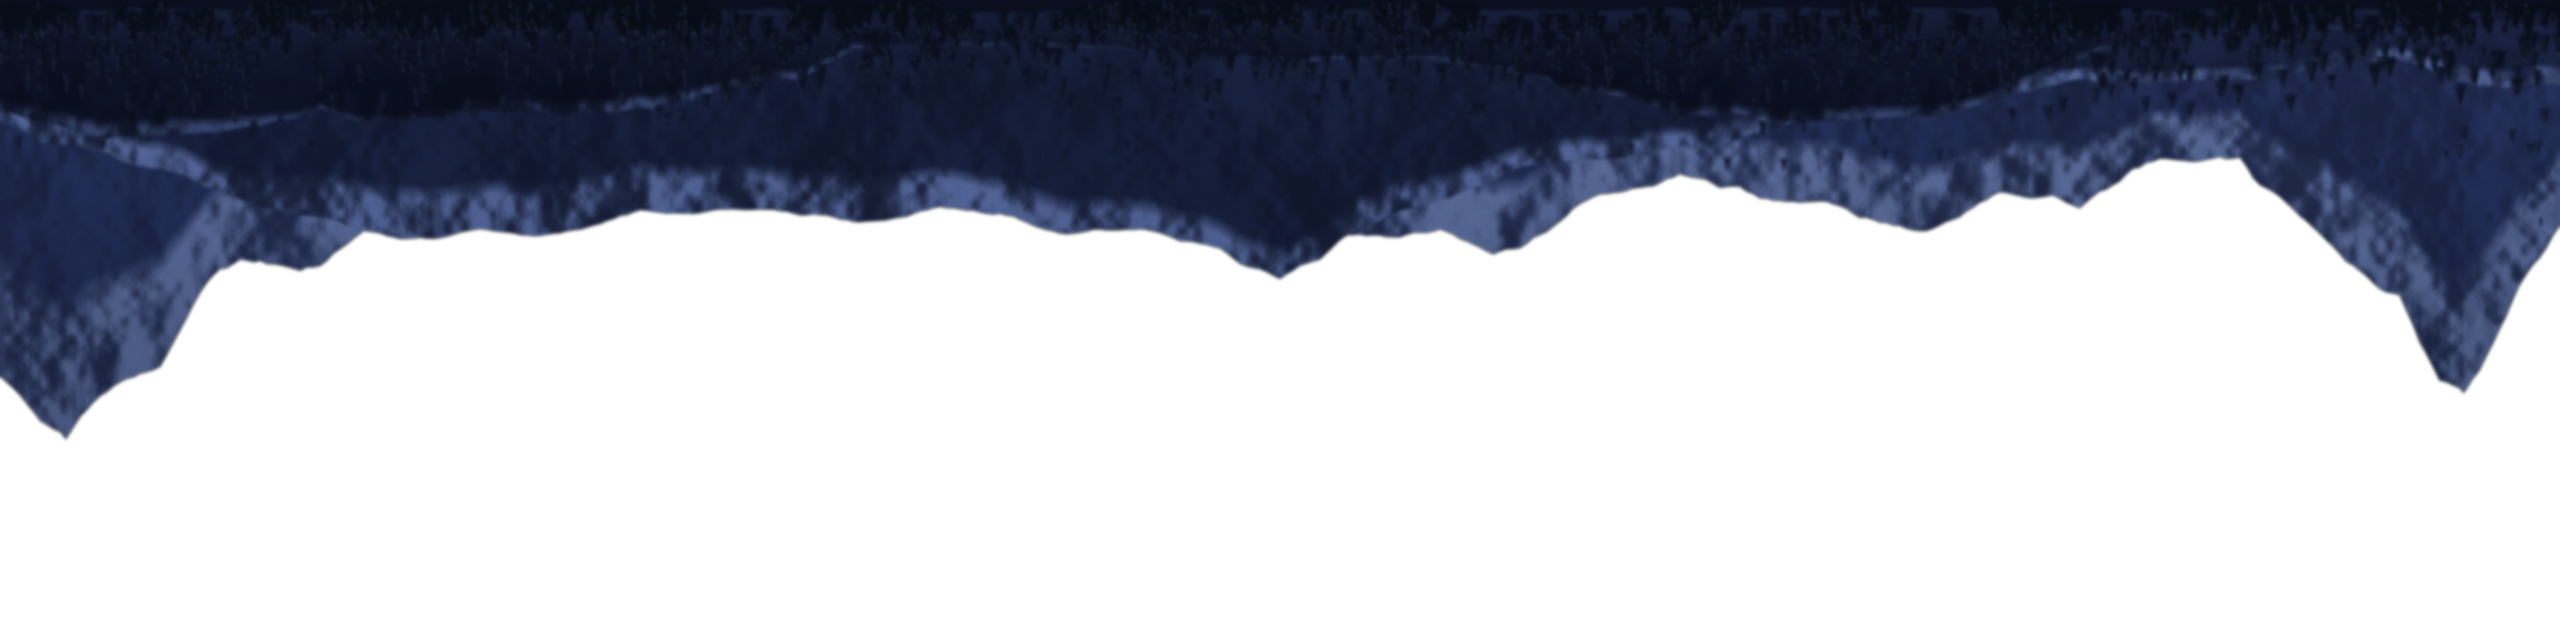
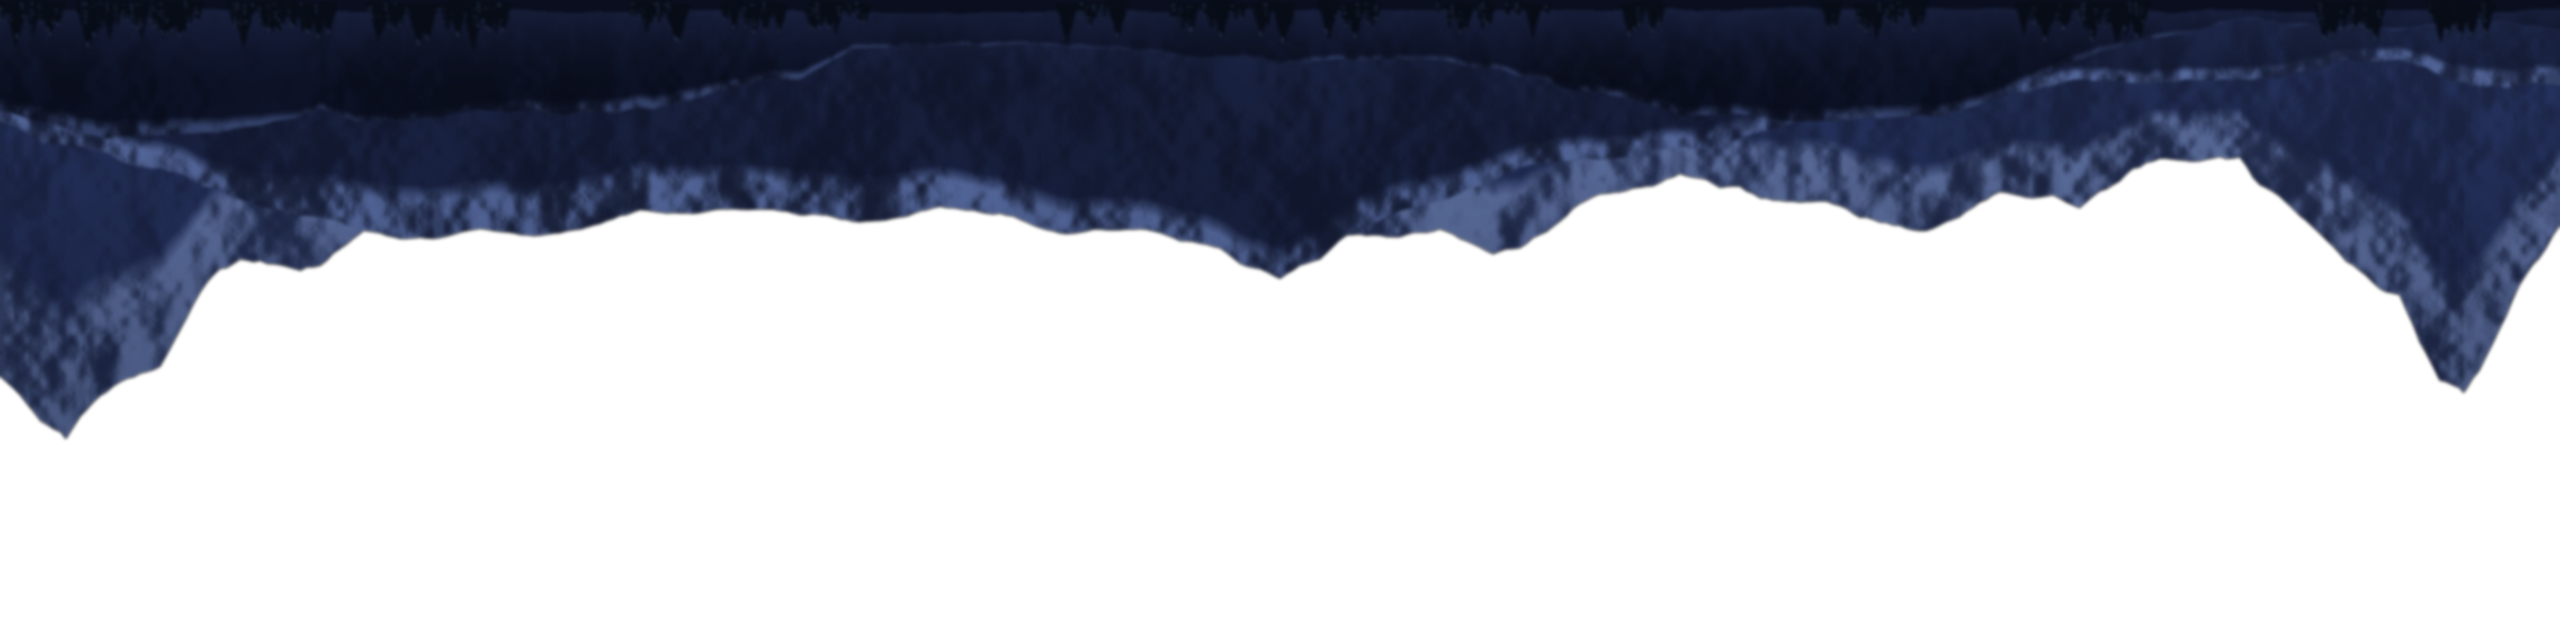
Menu: pines only along the lake's far shore; party: Frame Generation (Community Shaders) and Skyrim Priority
Claude-Session: https://claude.ai/code/session_01XygewZTgx3ZFWTg4ffda8j

diff --git a/tools/menulake.py b/tools/menulake.py
@@ -11,7 +11,7 @@ Writes (2560x1440 painting space, the horizon - the far shore - at y 800):
   menu_aurora2.png     the northern lights: two curtains (alpha), drawn twice out of step by the game
   menu_lake_life.png   life on the lake: lily pads (a few in flower) floating on the water, reeds and bushes in the
                        near corners (2560x1440, alpha) - the game rocks it gently on the water
-The mountains carry snowy pine forest on their lower slopes and a tree line along the far shore.
+The far shore carries a line of snowy pines in groves.
 """
 import math, pathlib, sys
 import numpy as np
@@ -127,21 +127,12 @@ def pine(d, x, y, h, rng, dark, snow):
 
 
 def forest(img):
-    """snowy pine forest: thick along the far shore, thinning up the near range's lower slopes (drawn at 2x, then
-    shrunk: soft edges)"""
+    """snowy pines along the lake's far shore only, in groves with gaps (drawn at 2x, then shrunk: soft edges)"""
     big = Image.new('RGBA', (W * 2, H * 2), (0, 0, 0, 0))
     d = ImageDraw.Draw(big)
     rng = np.random.default_rng(91)
     al = np.asarray(img)[..., 3]
     trees = []
-    # up the slopes: only where there is mountain under the tree, more of them lower down
-    for _ in range(900):
-        x = rng.uniform(0, W)
-        y = HORIZON - 8 - rng.exponential(38)
-        if y < 560 or al[int(y), int(min(x, W - 1))] < 250:
-            continue
-        hgt = 7 + 16 * (y - 560) / (HORIZON - 560) * rng.uniform(0.7, 1.2)
-        trees.append((y, x, hgt))
     # the shore's tree line
     x = 0.0
     while x < W:

diff --git a/party/modplan.py b/party/modplan.py
@@ -106,6 +106,9 @@ RECIPES = [
     ('CG Universal Mesh Fix', 'Universal Grass Mod Mesh Fix*.zip', 'graphics', 'map', {'Universal CG Tree mesh fix/': ''}),
     ('Nolvus Grass Mashup', 'Nolvus Grass Mashup*.7z', 'graphics', 'map', {'': ''}),
     ('Seasons of Skyrim', 'Seasons of Skyrim*.7z', 'graphics', 'map', {'Seasons of Skyrim SKSE FOMOD Installer/Required/': '', 'Seasons of Skyrim SKSE FOMOD Installer/AE/': ''}),
+    # frame rate: Community Shaders' frame generation (AMD FSR 3 / NVIDIA DLSS-G), and the game at high CPU priority
+    ('Frame Generation', 'Frame Generation-*.7z', 'graphics', 'map', {'': ''}),
+    ('Skyrim Priority', 'Skyrim Priority*.zip', 'graphics', 'map', {'Data/': ''}),
     ('Skysight Skins', '01 - Skysight Skins*.rar', 'graphics', 'fomod', {'pick': ['Vanilla', 'Clean and Hairy (default)', 'Vanilla (default)', 'Default Subsurface Maps', 'Use Patched Vanilla Textures']}),
     ('Skyland AIO', 'Skyland AIO-34179-4-32-1700281282 (1).7z', 'graphics', 'fomod', {'pick': ['Start', 'Yes', 'Snowy Stone Roads', 'Tan', 'Whiterun', 'Winterhold', 'Riften', 'Markarth', 'Solitude',
         'High Hrothgar', 'Windhelm', 'Sovngarde', 'Skyhaven Temple', 'Grey', 'RW2', 'Skyking Galaxy (Favorite)', 'Finish'], 'drop': ['Windhelm Donor Wall'], 'exactly': {'Dirt Roads': 'No'}}),
